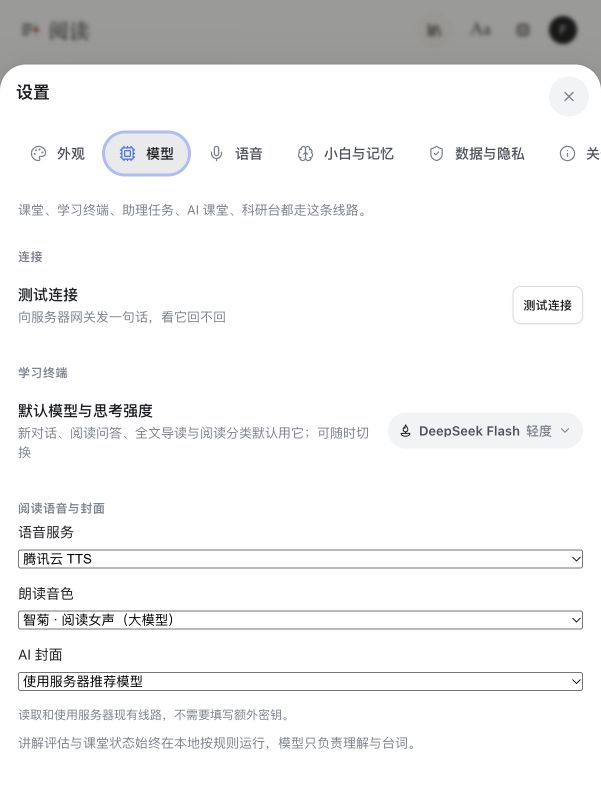
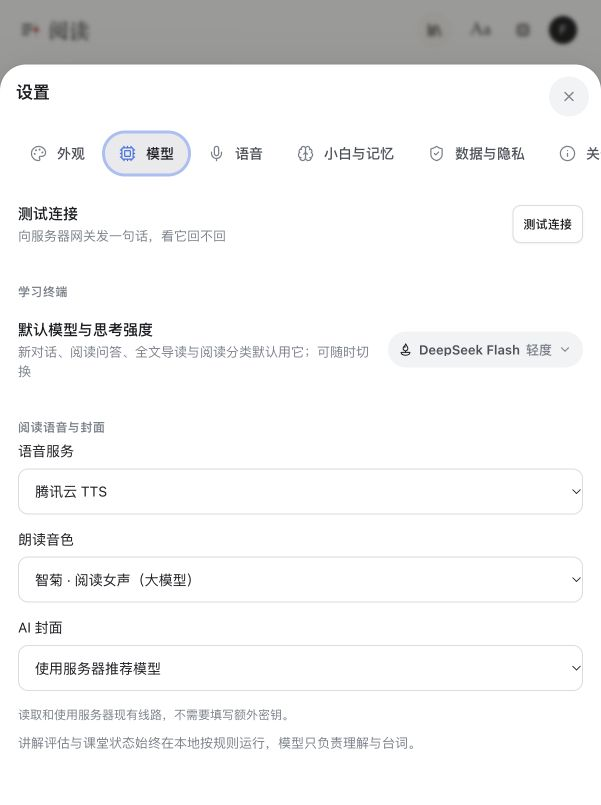
docs: verify final Tencent settings layout

diff --git a/doc/qa-evidence/2026-10-15-tencent-tts/README.md b/doc/qa-evidence/2026-10-15-tencent-tts/README.md
@@ -30,3 +30,5 @@
 `browser-network-male.json`：登录账号在原版阅读界面选择智斌后，三个分段请求均发往站内语音接口，实际响应音色为 501000；页面播放、暂停和继续操作通过。`settings-male.png`、`playing.png` 保存该流程画面。
 
 浏览器完整验证已通过：全局设置与阅读内设置均提供腾讯 TTS 和四个音色；选中智斌后真实请求/响应对应 501000；播放、暂停、继续均通过。整页刷新后音色仍为 501000，最后在全局设置恢复默认智菊 501002。见 `browser-proof.json` 和 `global-settings.png`。
+
+全局设置的下拉框已统一使用主题输入控件样式。最终前端版本 `20261015-reader-0293be5`，973 文件校验通过，前端单独发布未重启服务。
